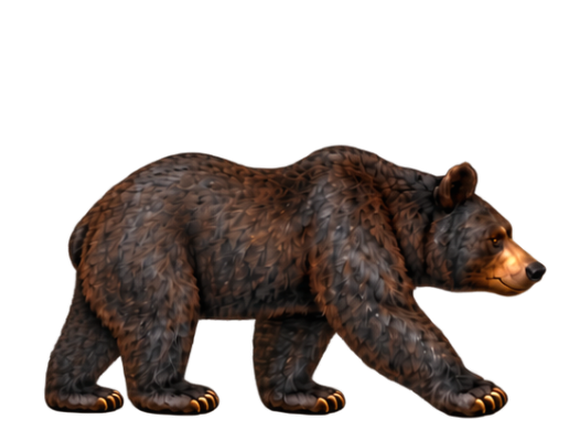
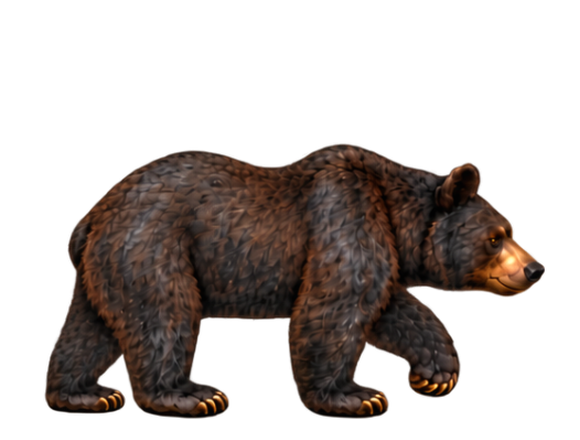
Add files via upload

Changed region(s): [[0.0931, 0.325, 0.9621, 0.975], [0.0621, 0.7977, 0.0931, 0.9159]]

diff --git a/game.js b/game.js
@@ -1350,10 +1350,10 @@
     return -1;
   }
   const BEAR_REFERENCE_POINTS=Object.freeze([[1459, 640], [1427, 661], [1394, 676], [1364, 681], [1335, 678], [1307, 669], [1275, 655], [1252, 641], [1240, 623], [1236, 601], [1239, 576], [1247, 551], [1260, 530], [1277, 512], [1291, 501], [1295, 493], [1285, 484], [1265, 476], [1240, 470], [1211, 467], [1188, 470], [1164, 477], [1146, 484], [1134, 494], [1126, 512], [1117, 530], [1102, 546], [1082, 561], [1061, 571], [1043, 576], [1025, 576], [1003, 570], [984, 563], [963, 562], [940, 565], [916, 568], [893, 574], [877, 580], [867, 590], [863, 600], [869, 619], [880, 636], [891, 647], [906, 654], [925, 658], [937, 666], [946, 679], [959, 691], [979, 706], [1002, 720], [1025, 734], [1042, 739], [1070, 739], [1107, 735], [1144, 733], [1190, 731], [1234, 731], [1270, 732], [1306, 737], [1343, 742], [1378, 746], [1414, 744], [1459, 735]]);
-  const BEAR_SPRITES=Object.freeze({"up-1": {"file": "assets/animals/bear/up-1.webp", "width": 580, "height": 440, "anchorX": 290, "anchorY": 420, "scale": 1.3}, "up-2": {"file": "assets/animals/bear/up-2.webp", "width": 580, "height": 440, "anchorX": 290, "anchorY": 420, "scale": 1.3}, "side-1": {"file": "assets/animals/bear/side-1.webp?v=67", "width": 580, "height": 440, "anchorX": 290, "anchorY": 420, "scale": 1.3}, "side-2": {"file": "assets/animals/bear/side-2.webp?v=67", "width": 580, "height": 440, "anchorX": 290, "anchorY": 420, "scale": 1.3}, "down-1": {"file": "assets/animals/bear/down-1.webp", "width": 580, "height": 440, "anchorX": 290, "anchorY": 420, "scale": 1.3}, "down-2": {"file": "assets/animals/bear/down-2.webp", "width": 580, "height": 440, "anchorX": 290, "anchorY": 420, "scale": 1.3}, "side-3": {"file": "assets/animals/bear/side-3.webp?v=67", "width": 580, "height": 440, "anchorX": 290, "anchorY": 420, "scale": 1.3}, "side-4": {"file": "assets/animals/bear/side-4.webp?v=67", "width": 580, "height": 440, "anchorX": 290, "anchorY": 420, "scale": 1.3}, "rest-up": {"file": "assets/animals/bear/rest-up.webp", "width": 580, "height": 440, "anchorX": 290, "anchorY": 420, "scale": 1.3}, "rest-side": {"file": "assets/animals/bear/rest-side.webp", "width": 580, "height": 440, "anchorX": 290, "anchorY": 420, "scale": 1.3}, "rest-down": {"file": "assets/animals/bear/rest-down.webp", "width": 580, "height": 440, "anchorX": 290, "anchorY": 420, "scale": 1.3}});
+  const BEAR_SPRITES=Object.freeze({"up-1": {"file": "assets/animals/bear/up-1.webp", "width": 580, "height": 440, "anchorX": 290, "anchorY": 420, "scale": 1.3}, "up-2": {"file": "assets/animals/bear/up-2.webp", "width": 580, "height": 440, "anchorX": 290, "anchorY": 420, "scale": 1.3}, "side-1": {"file": "assets/animals/bear/side-1.webp?v=69", "width": 580, "height": 440, "anchorX": 290, "anchorY": 420, "scale": 1.3}, "side-2": {"file": "assets/animals/bear/side-2.webp?v=69", "width": 580, "height": 440, "anchorX": 290, "anchorY": 420, "scale": 1.3}, "down-1": {"file": "assets/animals/bear/down-1.webp", "width": 580, "height": 440, "anchorX": 290, "anchorY": 420, "scale": 1.3}, "down-2": {"file": "assets/animals/bear/down-2.webp", "width": 580, "height": 440, "anchorX": 290, "anchorY": 420, "scale": 1.3}, "rest-up": {"file": "assets/animals/bear/rest-up.webp", "width": 580, "height": 440, "anchorX": 290, "anchorY": 420, "scale": 1.3}, "rest-side": {"file": "assets/animals/bear/rest-side.webp", "width": 580, "height": 440, "anchorX": 290, "anchorY": 420, "scale": 1.3}, "rest-down": {"file": "assets/animals/bear/rest-down.webp", "width": 580, "height": 440, "anchorX": 290, "anchorY": 420, "scale": 1.3}});
   const BEAR_RULES=Object.freeze({count:4,speed:95,frameSeconds:.28,restMin:1.2,restMax:36,edgeHideX:10430,walkSize:1.05,restSize:1.2});
   const BEAR_ZONE=Object.freeze(BEAR_REFERENCE_POINTS.map(([x,y])=>[x/1459*10000,y/973*(10000*1365/2048)]));
-  const BEAR_WALK=Object.freeze({up:Object.freeze(['up-1','up-2']),down:Object.freeze(['down-1','down-2']),left:Object.freeze(['side-2','side-1','side-4','side-3']),right:Object.freeze(['side-2','side-1','side-4','side-3'])});
+  const BEAR_WALK=Object.freeze({up:Object.freeze(['up-1','up-2']),down:Object.freeze(['down-1','down-2']),left:Object.freeze(['side-1','side-2','side-1','side-2']),right:Object.freeze(['side-1','side-2','side-1','side-2'])});
   function bearAllowed(x,y){
     const top=640/973*(10000*1365/2048),bottom=735/973*(10000*1365/2048);
     if(x>=10000)return x<=10900&&y>top+20&&y<bottom-20;
